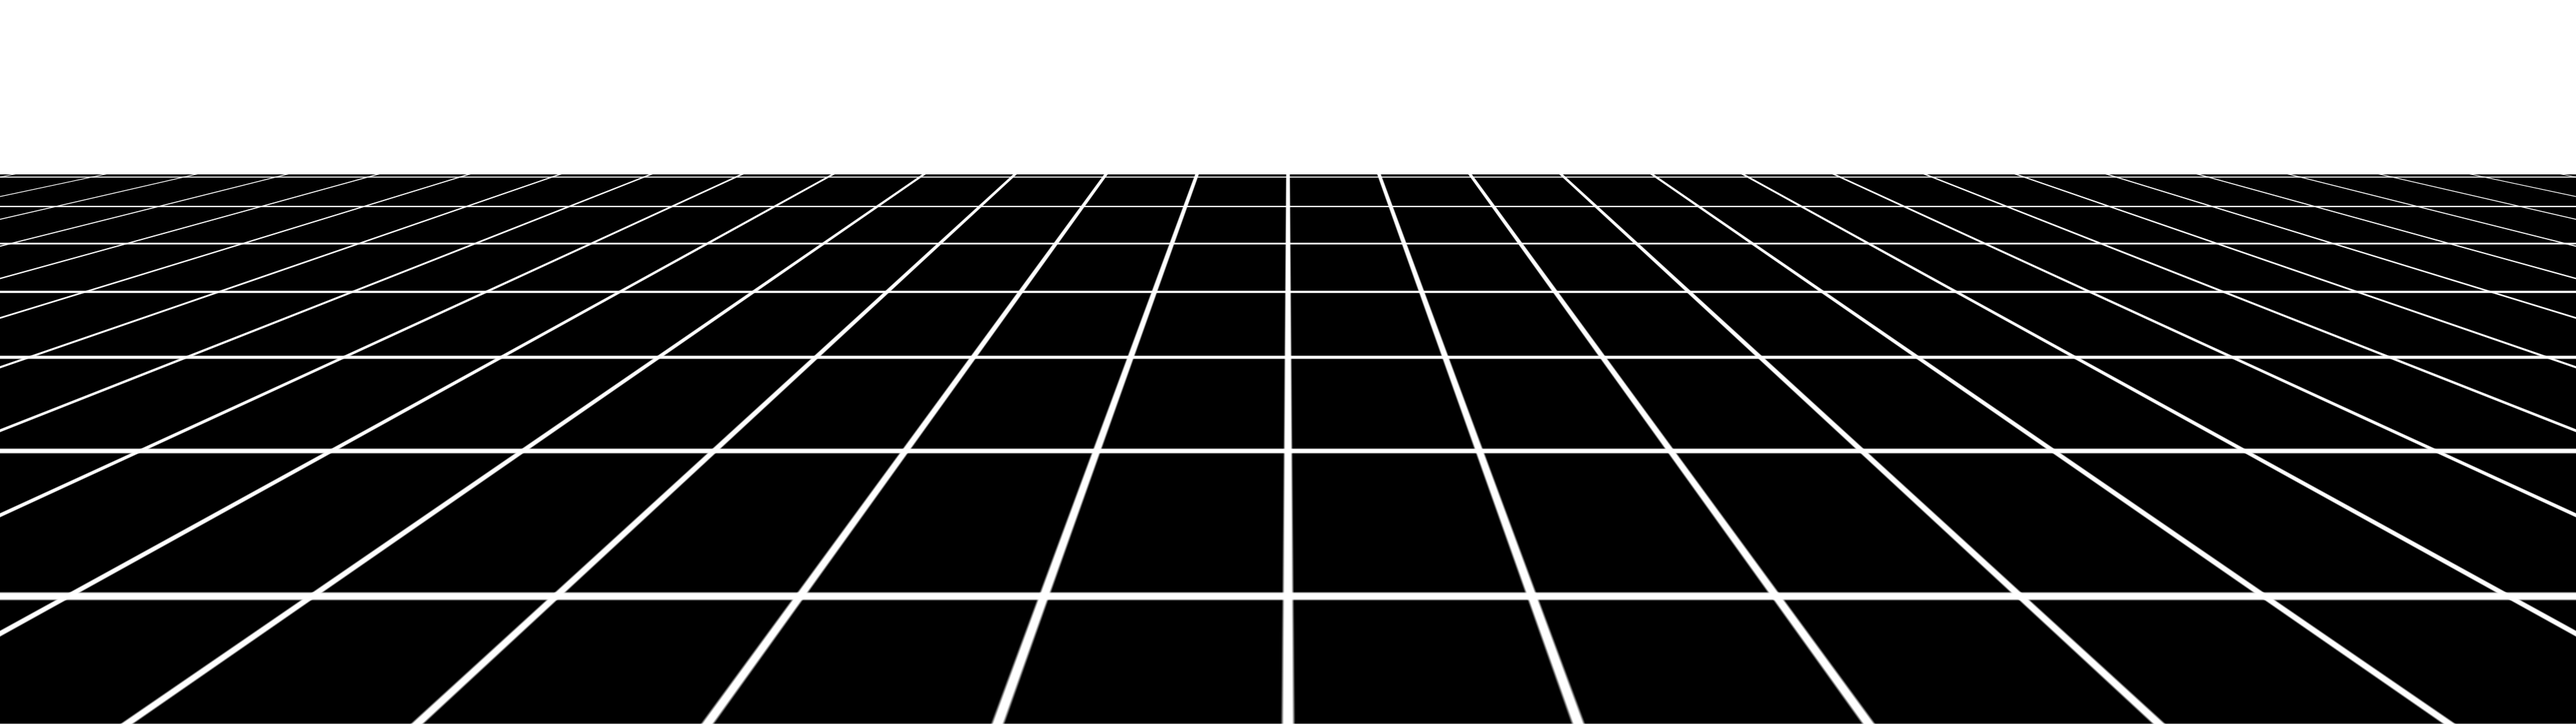
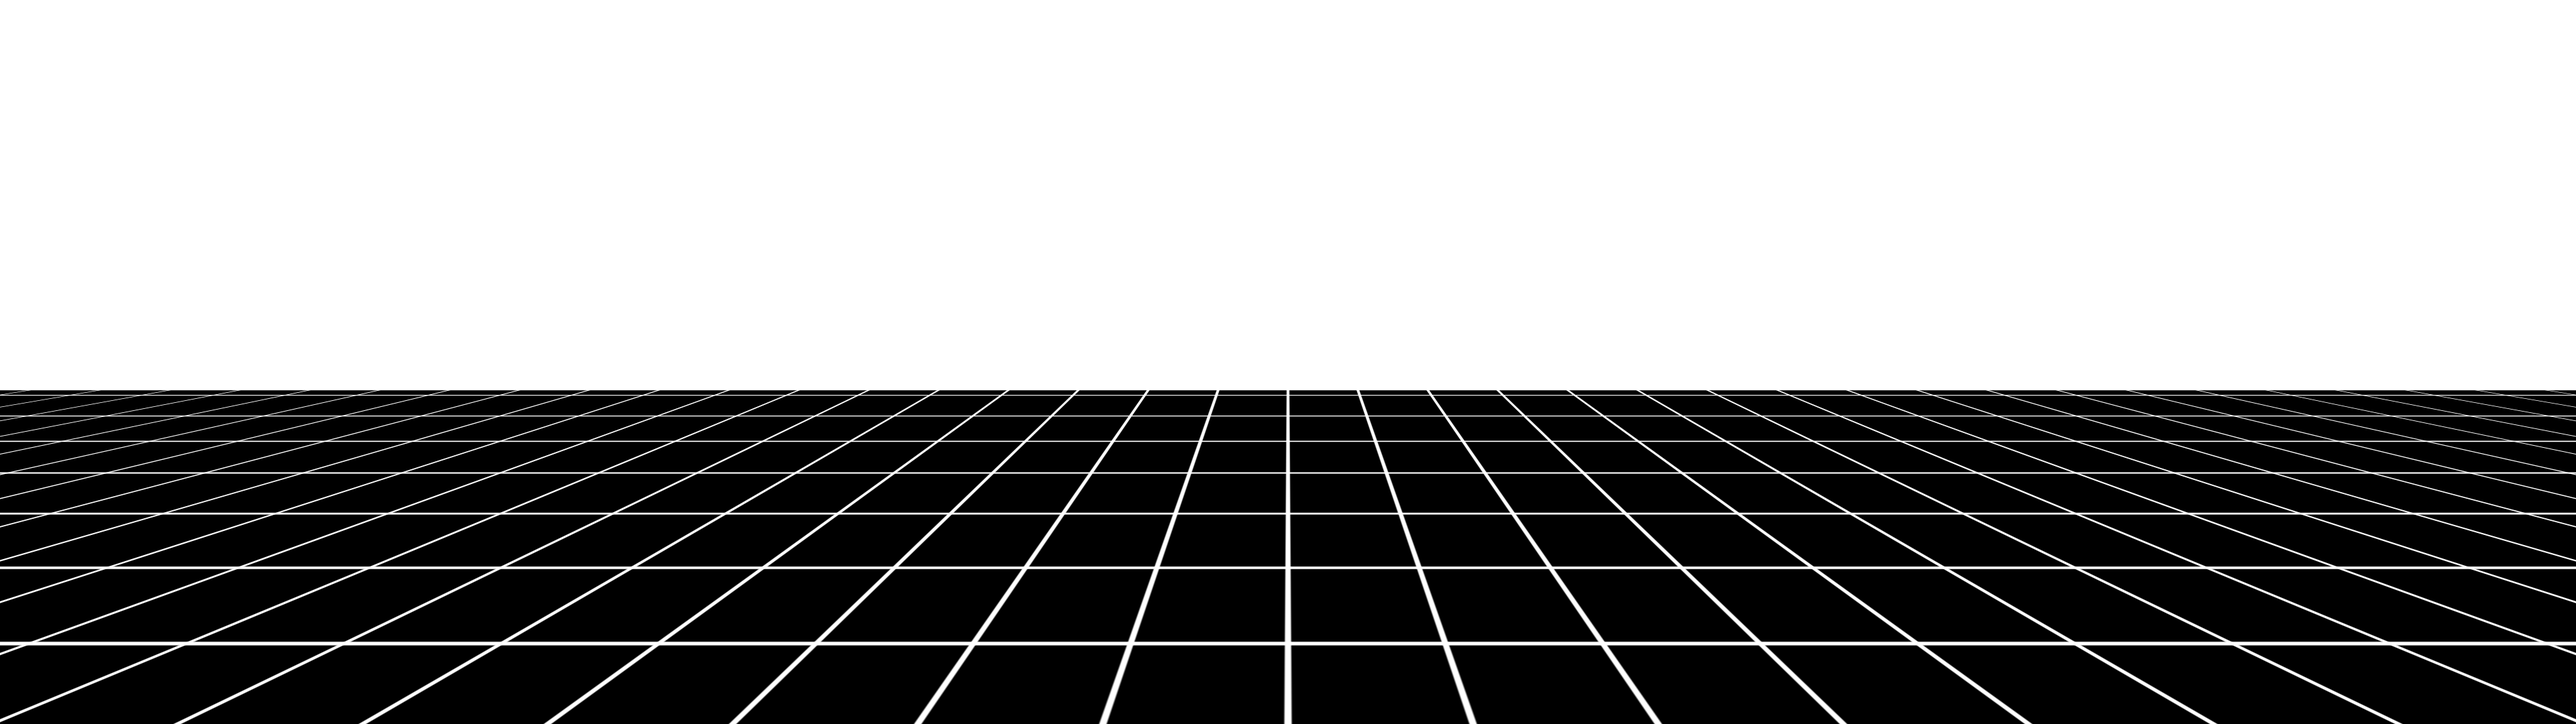
Go time

diff --git a/src/components/images/index.js b/src/components/images/index.js
@@ -1,27 +1,19 @@
-import image00 from "./floor_00-squashed.png";
-import image01 from "./floor_01-squashed.png";
-import image02 from "./floor_02-squashed.png";
-import image03 from "./floor_03-squashed.png";
-import image04 from "./floor_04-squashed.png";
-import image05 from "./floor_05-squashed.png";
-import image06 from "./floor_06-squashed.png";
-import image07 from "./floor_07-squashed.png";
-import image08 from "./floor_08-squashed.png";
-import image09 from "./floor_09-squashed.png";
-import image10 from "./floor_10-squashed.png";
-import image11 from "./floor_11-squashed.png";
-import image12 from "./floor_12-squashed.png";
-import image13 from "./floor_13-squashed.png";
-import image14 from "./floor_14-squashed.png";
-import image15 from "./floor_15-squashed.png";
-import image16 from "./floor_16-squashed.png";
-import image17 from "./floor_17-squashed.png";
-import image18 from "./floor_18-squashed.png";
-import image19 from "./floor_19-squashed.png";
-import image20 from "./floor_20-squashed.png";
-import image21 from "./floor_21-squashed.png";
-import image22 from "./floor_22-squashed.png";
-import image23 from "./floor_23-squashed.png";
+import image00 from "./Floor_00-squashed.png";
+import image01 from "./Floor_01-squashed.png";
+import image02 from "./Floor_02-squashed.png";
+import image03 from "./Floor_03-squashed.png";
+import image04 from "./Floor_04-squashed.png";
+import image05 from "./Floor_05-squashed.png";
+import image06 from "./Floor_06-squashed.png";
+import image07 from "./Floor_07-squashed.png";
+import image08 from "./Floor_08-squashed.png";
+import image09 from "./Floor_09-squashed.png";
+import image10 from "./Floor_10-squashed.png";
+import image11 from "./Floor_11-squashed.png";
+import image12 from "./Floor_12-squashed.png";
+import image13 from "./Floor_13-squashed.png";
+import image14 from "./Floor_14-squashed.png";
+import image15 from "./Floor_15-squashed.png";
 
 export default [
   image00,
@@ -40,12 +32,4 @@ export default [
   image13,
   image14,
   image15,
-  image16,
-  image17,
-  image18,
-  image19,
-  image20,
-  image21,
-  image22,
-  image23,
 ];

diff --git a/src/components/Floor.svelte b/src/components/Floor.svelte
@@ -6,8 +6,8 @@
   let animationId;
   export let play = false;
 
-  const ImageWidth = 3840;
-  const ImageHeight = 1080;
+  let ImageWidth;
+  let ImageHeight;
   let index = 0;
 
   function drawFloor(ctx) {
@@ -21,12 +21,12 @@
       ctx.drawImage(
         image,
         0,
-        canvasElm.height - ImageHeight,
+        0,
         ImageWidth,
         ImageHeight
       );
 
-      index = index + 2;
+      index = index + 1;
 
       if (index === images.length) {
         index = 0;
@@ -35,21 +35,17 @@
   }
 
   function resizeCanvasToDisplaySize(canvas) {
-    const width = ImageWidth;
-    const height = ImageHeight;
-
-    if (canvas.width !== width || canvas.height !== height) {
-      canvas.width = width;
-      canvas.height = height;
-      return true;
-    }
-
-    return false;
+    canvas.width = document.querySelector('canvas').clientWidth;
+    canvas.height = document.querySelector('canvas').clientHeight;
   }
 
   onMount(() => {
     const ctx = canvasElm.getContext("2d");
     resizeCanvasToDisplaySize(canvasElm);
+
+    ImageWidth = document.querySelector('canvas').clientWidth;
+    ImageHeight =document.querySelector('canvas').clientHeight;
+    // insert the first frame
     drawFloor(ctx);
   });
 
@@ -82,19 +78,16 @@
 
   $: {
     if (play) {
-      startAnimating(24);
+      startAnimating(30);
     }
   }
 </script>
 
 <style>
   canvas {
-    width: 100%;
-    height: 50%;
-    position: absolute;
-    bottom: 0;
-    top: auto;
-    object-fit: cover;
+    width: 100vw;
+    height: 60vh;
+    object-fit: contain;
     background-color: transparent;
   }
 </style>

diff --git a/src/App.svelte b/src/App.svelte
@@ -83,6 +83,7 @@
 </script>
 
 <main class:active={counting}>
+	<div class="block"></div>
 	<Floor play={counting} />
 	<div class="overlay" />
 	<div class="input">
@@ -116,11 +117,17 @@
 		overflow: hidden;
 	}
 
+	.block {
+		height: 40vh;
+		background-color: black;
+	}
+
 	.overlay {
 		position: absolute;
 		width: 100vw;
 		height: 100vh;
-		background: linear-gradient(180deg, rgba(0,0,0,1) 68%, rgba(0,0,0,0) 100%)
+		background: linear-gradient(180deg, rgba(0,0,0,1) 72%, rgba(0,0,0,0) 100%);
+		top: 0;
 	}
 
 	.input > :global(*:focus) {
@@ -155,10 +162,11 @@
 		mix-blend-mode: multiply;
 		pointer-events:none;
 		z-index: 15;
+		top: 0;
 	}
 
 	.active .gradient {
-		background: linear-gradient(114.5793141156962deg, #40F292, #0ecff8, #f64463);
+		background: linear-gradient(114.5793141156962deg, #1BF5CE, #F1F51B);
 	}
 
 	.active .gradient.finishing {
@@ -205,9 +213,9 @@
 		backdrop-filter: blur(4px);
 		background-color: transparent;
 		border-radius: 75px;
-		border: 4px solid rgba(6, 227, 250,1);
-		bottom: 18%;
-		color: rgba(6, 227, 250,1);
+		border: 4px solid #1BF5CE;
+		bottom: 20%;
+		color: #1BF5CE;
 		cursor: pointer;
 		display: flex;
 		font-family: Fira Sans;
